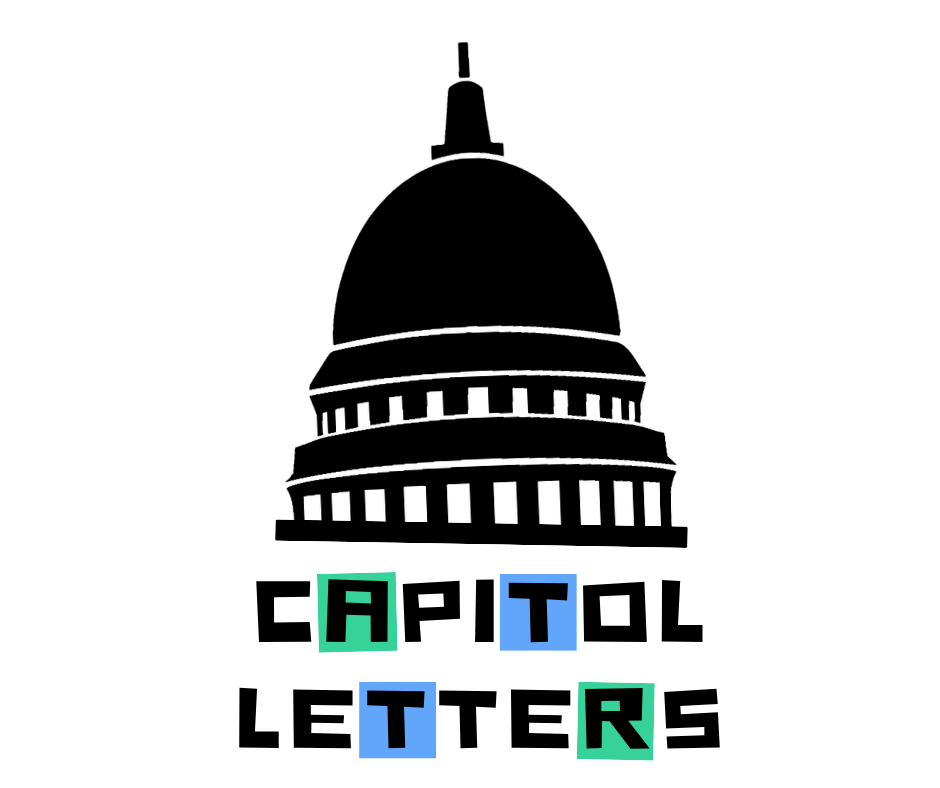
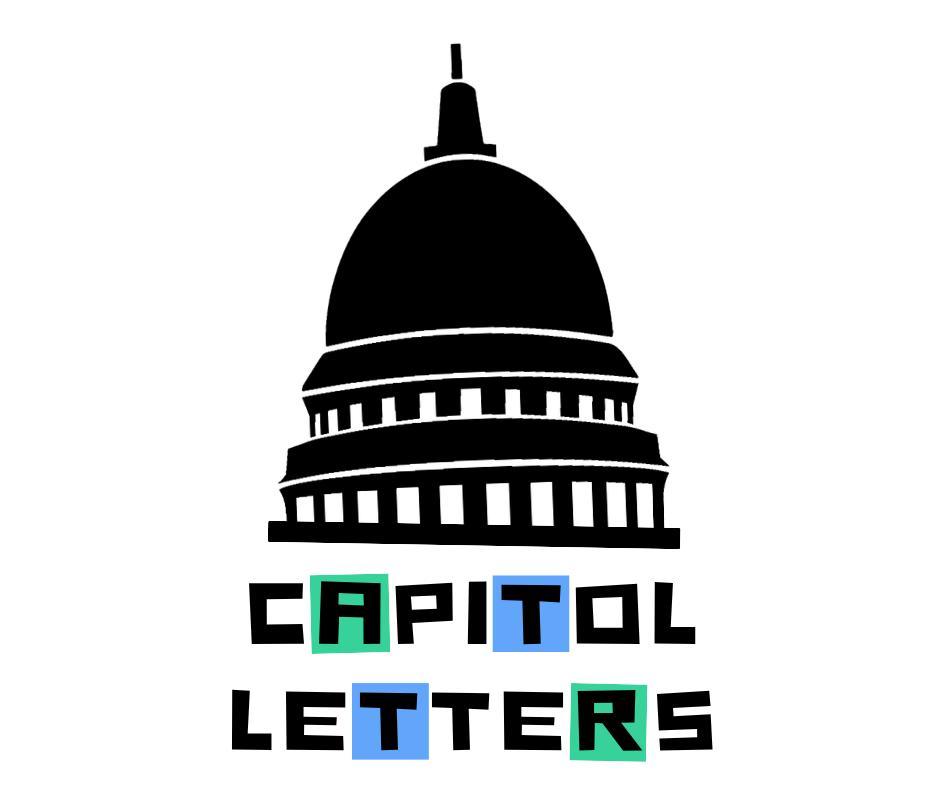
Revised badge titles

diff --git a/src/App.jsx b/src/App.jsx
@@ -3,7 +3,8 @@ import { useState, useEffect } from "react";
 // --- WORD SYSTEM ---
 const WORD_BANK = {
   "2026-04-16": { word: "METRO", fact: "The Madison Metro Transit operates with approximately 1,346 bus stops. There, now you know." },
-  "2026-04-17": { word: "PLAZA", fact: "The large paintings throughout the Plaza were given to the bar in return for erasing the painter’s $1,400+ running bar tab." }
+  "2026-04-17": { word: "PLAZA", fact: "The large paintings throughout the Plaza were given to the bar in return for erasing the painter's $1,400+ running bar tab." },
+  "2026-04-18": { word: "CHAIR", fact: "Sit down for this one. The Memorial Union typically replaces about 60 Terrace chairs annually. That's enough to seat 60 people." }
 };
 
 const BASE_DATE = "2026-04-16";
@@ -13,8 +14,8 @@ const BADGES = [
   { days: 15, label: 'Knows the "242-2000" jingle' },
   { days: 10, label: "Can name every Madison lake" },
   { days: 5, label: "Isthmuskateer" },
-  { days: 3, label: 'Comfortable zipper merging on beltline' },
-  { days: 1, label: "Can confidently navigate Woodman's" }
+  { days: 3, label: 'Zipper merges on beltline' },
+  { days: 1, label: "Confidently navigates Woodman's" }
 ];
 
 const getDevDate = () => {
@@ -88,7 +89,7 @@ const getBadge = (streak) => {
   for (let badge of BADGES) {
     if (streak >= badge.days) return badge.label;
   }
-  return "Solve to unlock a title";
+  return "Solve to unlock a badge";
 };
 
 const MAX_GUESSES = 6;